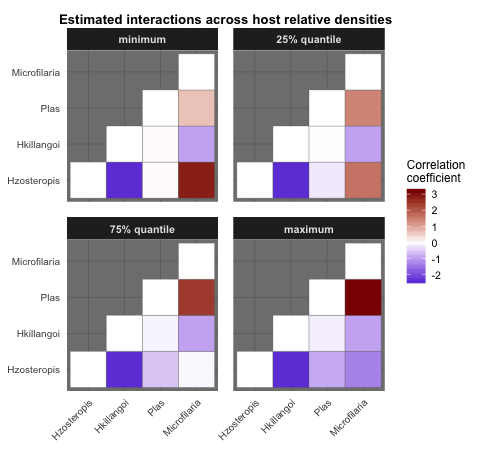
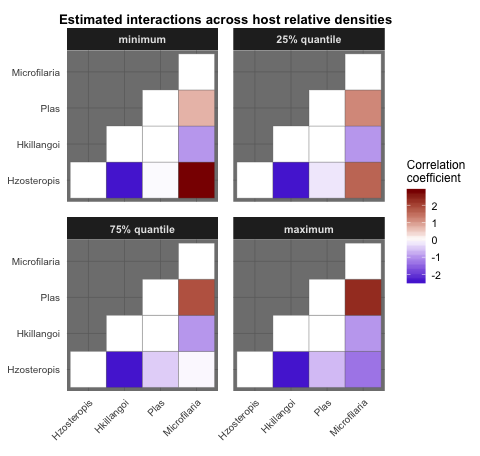
improved readme and tests

diff --git a/docs/README.md b/docs/README.md
@@ -7,7 +7,7 @@
 
 [Releases](https://github.com/nicholasjclark/MRFcov/releases)   |   [Reporting Issues](https://github.com/nicholasjclark/MRFcov/issues)   |   [Blogpost](http://nicholasjclark.weebly.com/biotic-interactions.html) <img align="right" src=http://nicholasjclark.weebly.com/uploads/4/4/9/4/44946407/nclark-network-changes_orig.gif alt="animated gif" width="360" height="235"/>
 
-`MRFcov` (described by Clark *et al*, published in [*Ecology Statistical Reports*](https://esajournals.onlinelibrary.wiley.com/doi/full/10.1002/ecy.2221)) provides `R` functions for approximating interaction parameters of nodes in undirected Markov Random Fields (MRF) graphical networks. Models can incorporate covariates (a class of models known as [Conditional Random Fields; CRFs](http://homepages.inf.ed.ac.uk/csutton/publications/crftut-fnt.pdf); following methods developed by Cheng *et al* 2014 and Lindberg 2016), allowing users to estimate how interactions between nodes in the graph are predicted to change across covariate gradients. *Please note, functions have been streamlined considerably since the original paper was published, and so code used in the appendices for the paper won't work properly. Instead, it is better to follow the vignettes supplied here*
+`MRFcov` (described by Clark *et al*, published in [*Ecology Statistical Reports*](https://esajournals.onlinelibrary.wiley.com/doi/full/10.1002/ecy.2221)) provides `R` functions for approximating interaction parameters of nodes in undirected Markov Random Fields (MRF) graphical networks. Models can incorporate covariates (a class of models known as [Conditional Random Fields; CRFs](http://homepages.inf.ed.ac.uk/csutton/publications/crftut-fnt.pdf); following methods developed by Cheng *et al* 2014 and Lindberg 2016), allowing users to estimate how interactions between nodes in the graph are predicted to change across covariate gradients. *Note, functions have been streamlined considerably since the original paper was published*
 
 Why Use Conditional Random Fields?
 ----------------------------------
@@ -90,39 +90,39 @@ Finally, we can explore regression coefficients to get a better understanding of
 ``` r
 MRF_mod$key_coefs$Hzosteropis
 #>                      Variable Rel_importance Standardised_coef   Raw_coef
-#> 1                  Hkillangoi     0.66627526        -2.3966878 -2.3966878
-#> 5 scale.prop.zos_Microfilaria     0.12309374        -1.0301551 -1.0301551
-#> 3                Microfilaria     0.09602660         0.9098722  0.9098722
-#> 4              scale.prop.zos     0.09207635        -0.8909609 -0.8909609
-#> 2                        Plas     0.01651526        -0.3773352 -0.3773352
+#> 1                  Hkillangoi     0.67092508        -2.3763479 -2.3763479
+#> 5 scale.prop.zos_Microfilaria     0.12405353        -1.0218275 -1.0218275
+#> 3                Microfilaria     0.09858104         0.9108979  0.9108979
+#> 4              scale.prop.zos     0.09256580        -0.8826698 -0.8826698
+#> 2                        Plas     0.01150357        -0.3111640 -0.3111640
 ```
 
 ``` r
 MRF_mod$key_coefs$Hkillangoi
 #>         Variable Rel_importance Standardised_coef   Raw_coef
-#> 1    Hzosteropis     0.78228114        -2.3966878 -2.3966878
-#> 2   Microfilaria     0.12725430        -0.9666434 -0.9666434
-#> 3 scale.prop.zos     0.08964041        -0.8113009 -0.8113009
+#> 1    Hzosteropis     0.78001544        -2.3763479 -2.3763479
+#> 2   Microfilaria     0.12906715        -0.9666434 -0.9666434
+#> 3 scale.prop.zos     0.09091741        -0.8113009 -0.8113009
 ```
 
 ``` r
 MRF_mod$key_coefs$Plas
 #>                      Variable Rel_importance Standardised_coef   Raw_coef
-#> 2                Microfilaria     0.63490182         1.8198199  1.8198199
-#> 3              scale.prop.zos     0.25281952        -1.1483662 -1.1483662
-#> 4 scale.prop.zos_Microfilaria     0.07388426         0.6207991  0.6207991
-#> 1                 Hzosteropis     0.02729634        -0.3773352 -0.3773352
+#> 2                Microfilaria     0.65502420         1.4659795  1.4659795
+#> 3              scale.prop.zos     0.26221827        -0.9275358 -0.9275358
+#> 4 scale.prop.zos_Microfilaria     0.04716438         0.3933746  0.3933746
+#> 1                 Hzosteropis     0.02951075        -0.3111640 -0.3111640
 ```
 
 ``` r
 MRF_mod$key_coefs$Microfilaria
 #>                     Variable Rel_importance Standardised_coef   Raw_coef
-#> 3                       Plas     0.42918841         1.8198199  1.8198199
-#> 4             scale.prop.zos     0.15495426        -1.0934682 -1.0934682
-#> 5 scale.prop.zos_Hzosteropis     0.13752967        -1.0301551 -1.0301551
-#> 2                 Hkillangoi     0.12109431        -0.9666434 -0.9666434
-#> 1                Hzosteropis     0.10728820         0.9098722  0.9098722
-#> 6        scale.prop.zos_Plas     0.04994515         0.6207991  0.6207991
+#> 3                       Plas     0.34070569         1.4659795  1.4659795
+#> 4             scale.prop.zos     0.18955530        -1.0934682 -1.0934682
+#> 5 scale.prop.zos_Hzosteropis     0.16553077        -1.0218275 -1.0218275
+#> 2                 Hkillangoi     0.14813448        -0.9666434 -0.9666434
+#> 1                Hzosteropis     0.13154157         0.9108979  0.9108979
+#> 6        scale.prop.zos_Plas     0.02453218         0.3933746  0.3933746
 ```
 
 To work through more in-depth tutorials and examples, see the vignettes in the package and check out papers that have been published using the method
